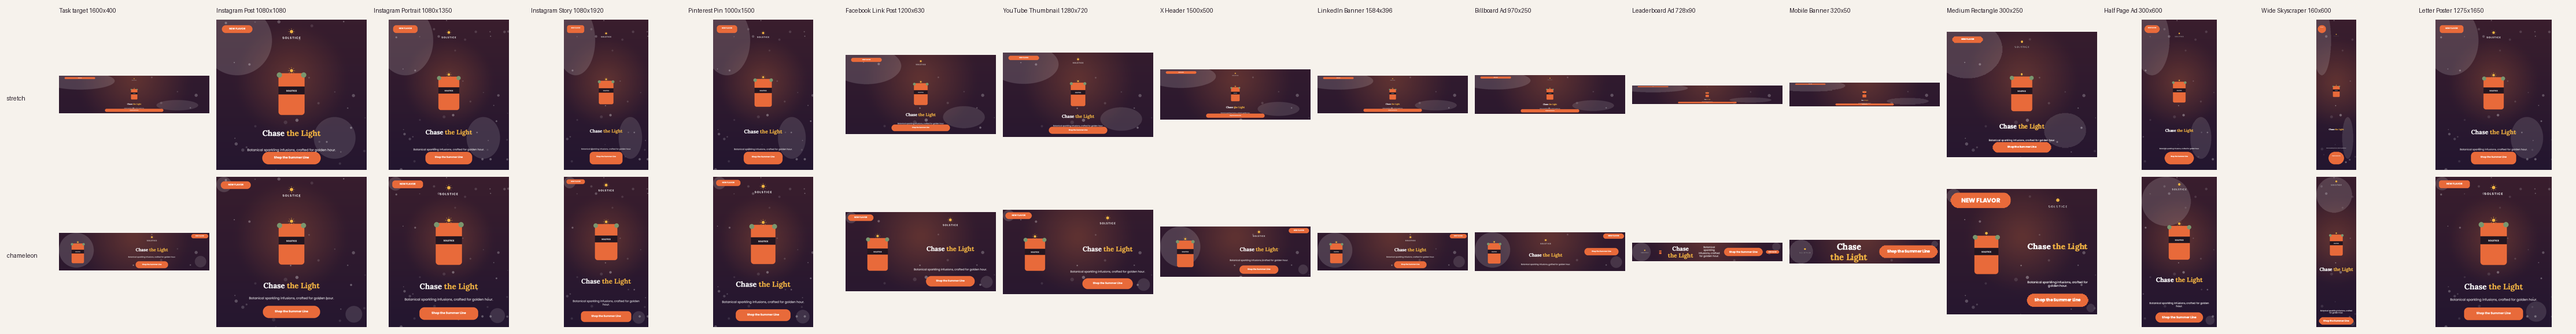
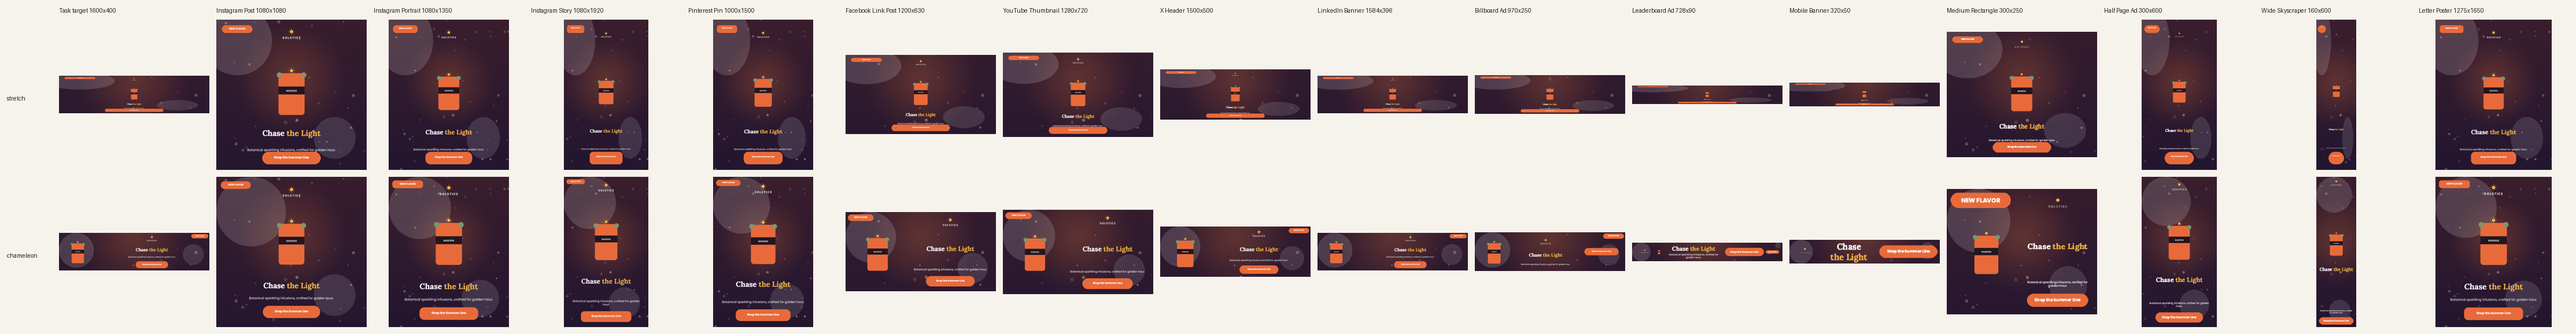
Stack strip text into one cell; keep decorations off buttons
One-row layouts now stack consecutive text blocks (eyebrow, headline,
date, subtitle) at a shared scale instead of placing each in its own
narrow column. Decorations clear text and button shapes with a small
margin, except overlaps that already existed in the source design.

diff --git a/engine/layout.py b/engine/layout.py
@@ -289,9 +289,15 @@ def strip(ctx: Ctx, blocks: list[Block], box: Box, text_share: float) -> tuple[l
         cap_h = STRIP_H_CAP.get(b.role, 0.8) * box.h
         s = min(cap_h / b.h, max(ctx.s_cap, _readable_floor(b)))
         fits_[b.id] = size_rigid(b, s, math.inf, cap_h)
+    items: list[list[Block]] = []
+    for b in blocks:  # consecutive texts form one stacked cell
+        if b.is_text and items and items[-1][0].is_text:
+            items[-1].append(b)
+        else:
+            items.append([b])
     gap_min = max(4.0, 0.25 * ctx.margin)
     rigid_w = sum(fits_[b.id].w for b in rigid)
-    budget = box.w - gap_min * (len(blocks) - 1)
+    budget = box.w - gap_min * (len(items) - 1)
     max_rigid = budget * (1 - text_share) if texts else budget
     if rigid_w > max_rigid > 0:
         # Shrink pictures and marks first so the CTA label stays legible;
@@ -317,28 +323,85 @@ def strip(ctx: Ctx, blocks: list[Block], box: Box, text_share: float) -> tuple[l
                 fits_[b.id] = size_rigid(b, fits_[b.id].scale * min(1.0, k), math.inf, box.h)
             rigid_w = sum(fits_[b.id].w for b in rigid)
     text_budget = max(1.0, budget - rigid_w)
-    wsum = sum(TEXT_WEIGHT.get(b.role, 1.5) for b in texts) or 1.0
+    cells = [it for it in items if it[0].is_text]
+    wsum = sum(max(TEXT_WEIGHT.get(b.role, 1.5) for b in c) for c in cells) or 1.0
     overflow = False
-    for b in texts:
-        el = b.elements[0]
-        alloc = text_budget * TEXT_WEIGHT.get(b.role, 1.5) / wsum
-        font = fit_font(el, alloc, box.h, ctx.text_cap(el))
-        if font is None:
-            font, overflow = 1, True
-        _, widest, h = measure(el, font, alloc)
-        fits_[b.id] = Fit(b, min(alloc, widest + 2), h, font=font)
+    cell_fit: dict[int, Fit] = {}
+    for c in cells:
+        alloc = text_budget * max(TEXT_WEIGHT.get(b.role, 1.5) for b in c) / wsum
+        fs, ok = _text_cell(ctx, c, alloc, box.h)
+        overflow = overflow or not ok
+        w = max(f.w for f in fs)
+        h = sum(f.h for f in fs) + _cell_gap(fs) * (len(fs) - 1)
+        for f in fs:
+            fits_[f.block.id] = f
+        cell_fit[id(c)] = Fit(c[0], w, h)
 
-    ordered = [fits_[b.id] for b in blocks]
-    used = sum(f.w for f in ordered)
-    n = len(ordered)
+    row = [cell_fit[id(it)] if it[0].is_text else fits_[it[0].id] for it in items]
+    used = sum(f.w for f in row)
+    n = len(row)
     gap = (box.w - used) / (n - 1) if n > 1 else 0.0
     gap = max(gap_min, min(gap, 0.08 * ctx.W))
     total = used + gap * (n - 1)
     x = box.x + max(0.0, (box.w - total) / 2)
-    for f in ordered:
-        f.x, f.y = x, box.y + (box.h - f.h) / 2
+    ordered: list[Fit] = []
+    for it, f in zip(items, row):
+        y0 = box.y + (box.h - f.h) / 2
+        if it[0].is_text:
+            members = [fits_[b.id] for b in it]
+            left = all((b.text_el or {}).get("text_align", "left") == "left" for b in it)
+            g = _cell_gap(members)
+            for m in members:
+                m.x = x if left or len(it) == 1 else x + (f.w - m.w) / 2
+                m.y = y0
+                y0 += m.h + g
+            ordered += members
+        else:
+            f.x, f.y = x, y0
+            ordered.append(f)
         x += f.w + gap
     return ordered, overflow or total > box.w + 1
+
+
+def _cell_gap(fs: list[Fit]) -> float:
+    return 0.25 * min((f.font or 10) for f in fs) if len(fs) > 1 else 0.0
+
+
+def _text_cell(ctx: Ctx, blocks: list[Block], w: float, h: float) -> tuple[list[Fit], bool]:
+    """Stack text blocks in a w x h cell at one common scale (keeps their
+    relative sizes), each at the largest integer size that fits."""
+    def sized(s: float) -> list[Fit]:
+        out = []
+        for b in blocks:
+            el = b.elements[0]
+            font = max(1, min(ctx.text_cap(el), int(num(el.get("font_size"), 12) * s)))
+            _, widest, th = measure(el, font, w)
+            while widest > w + 0.5 and font > 1:
+                font -= 1
+                _, widest, th = measure(el, font, w)
+            out.append(Fit(b, min(w, widest + 2), th, font=font))
+        return out
+
+    def height(fs: list[Fit]) -> float:
+        return sum(f.h for f in fs) + _cell_gap(fs) * (len(fs) - 1)
+
+    if len(blocks) == 1:
+        el = blocks[0].elements[0]
+        font = fit_font(el, w, h, ctx.text_cap(el))
+        ok = font is not None
+        font = font or 1
+        _, widest, th = measure(el, font, w)
+        return [Fit(blocks[0], min(w, widest + 2), th, font=font)], ok
+    lo, hi = 1e-3, 4.0
+    if height(sized(lo)) > h:
+        return sized(lo), False
+    for _ in range(24):
+        mid = (lo + hi) / 2
+        if height(sized(mid)) <= h:
+            lo = mid
+        else:
+            hi = mid
+    return sized(lo), True
 
 
 # ----------------------------------------------------------------------------

diff --git a/engine/chameleon.py b/engine/chameleon.py
@@ -82,10 +82,20 @@ def _hits(a: tuple[float, ...], b: tuple[float, ...]) -> bool:
 
 def _clear_text(a: Analysis, out: dict[str, dict[str, Any]], W: float, H: float) -> None:
     """Shrink decorations toward their corner so text never sits on them."""
-    texts = [_box(n) for n in out.values() if n.get("type") == "text"]
+    # Text plus button/badge shapes: a decoration may sit behind a picture
+    # (intentional layering) but never over copy or a call to action.
+    deco_ids = {el["id"] for b in a.decoration + a.background for el in b.elements}
+    guarded = [n for n in out.values() if n["id"] not in deco_ids and num(n.get("opacity"), 1) > 0
+               and (n.get("type") == "text" or (n.get("type") == "shape" and n.get("group_id")))]
+    src_els = {el["id"]: el for b in a.all_blocks() for el in b.elements}
+    pad = 0.02 * min(W, H)  # breathing room, so edges don't just touch
     for b in a.decoration:
         for el in b.elements:
             n = out[el["id"]]
+            # Overlaps that already existed in the source are intentional layering.
+            texts = [(x0 - pad, y0 - pad, x1 + pad, y1 + pad)
+                     for g in guarded if not _hits(_box(el), _box(src_els[g["id"]]))
+                     for x0, y0, x1, y1 in [_box(g)]]
             x0, y0, x1, y1 = _box(n)
             ax = 0.0 if (x0 + x1) / 2 < W / 2 else W   # corner it shrinks toward
             ay = 0.0 if (y0 + y1) / 2 < H / 2 else H

diff --git a/BUILD_PLAN.md b/BUILD_PLAN.md
@@ -94,6 +94,8 @@ No LLM: the hard part is geometric and measurable, determinism makes it reproduc
 
 - Generalisation pass: wrote 4 designs with unseen structures (`samples/extra/`). Fixed body copy misread as fine print (fine print now also has to be legal-size relative to the canvas), bottom-corner logos not recognised, and left-aligned columns breaking apart in stacks and side regions.
 
+- Strip and decoration pass: consecutive texts in one-row layouts stack into one cell (fixes eyebrow, headline and date sitting in separate narrow columns). Decorations now also clear buttons, with a 2% margin, unless the overlap already existed in the source.
+
 ### Next highest-value tasks
 
 1. Run the Docker build and run once Docker is available.
